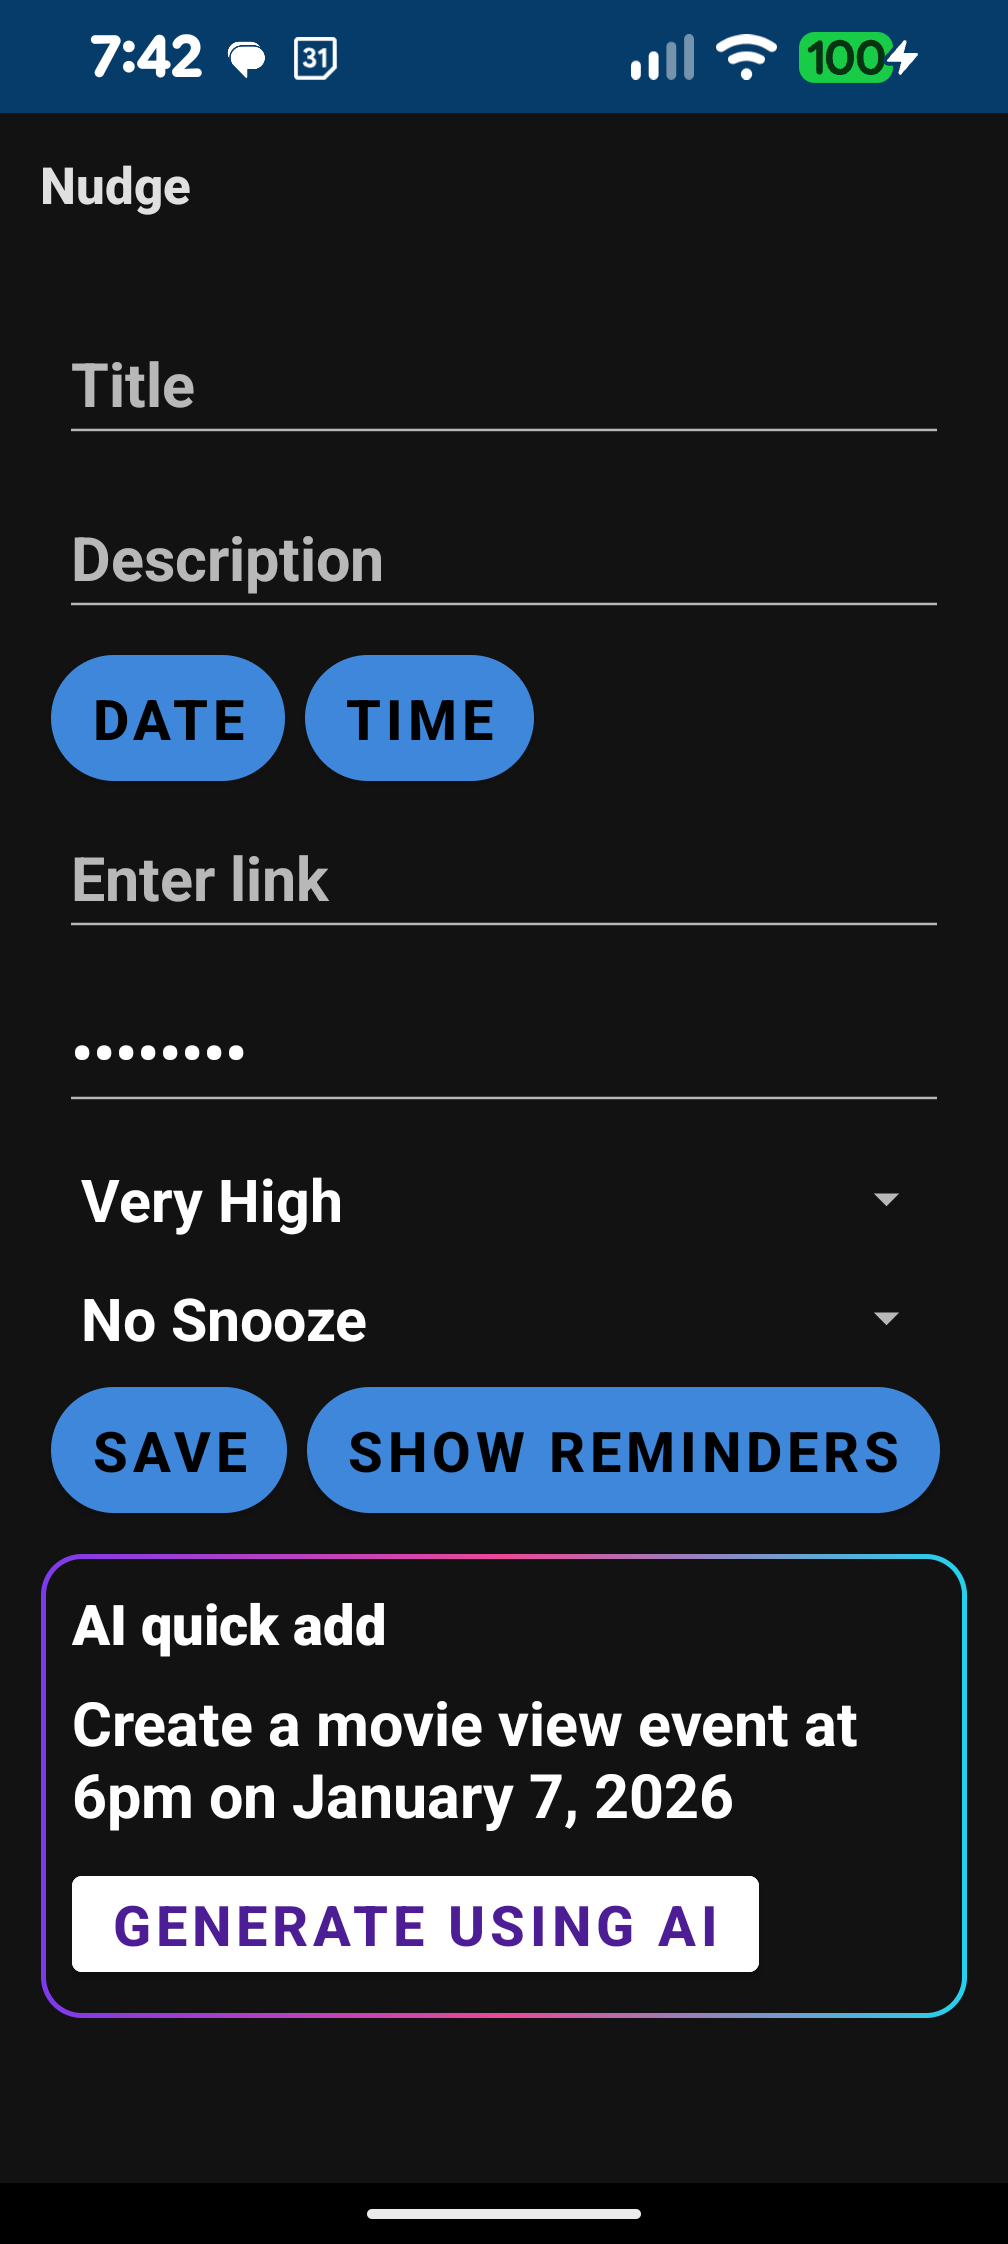
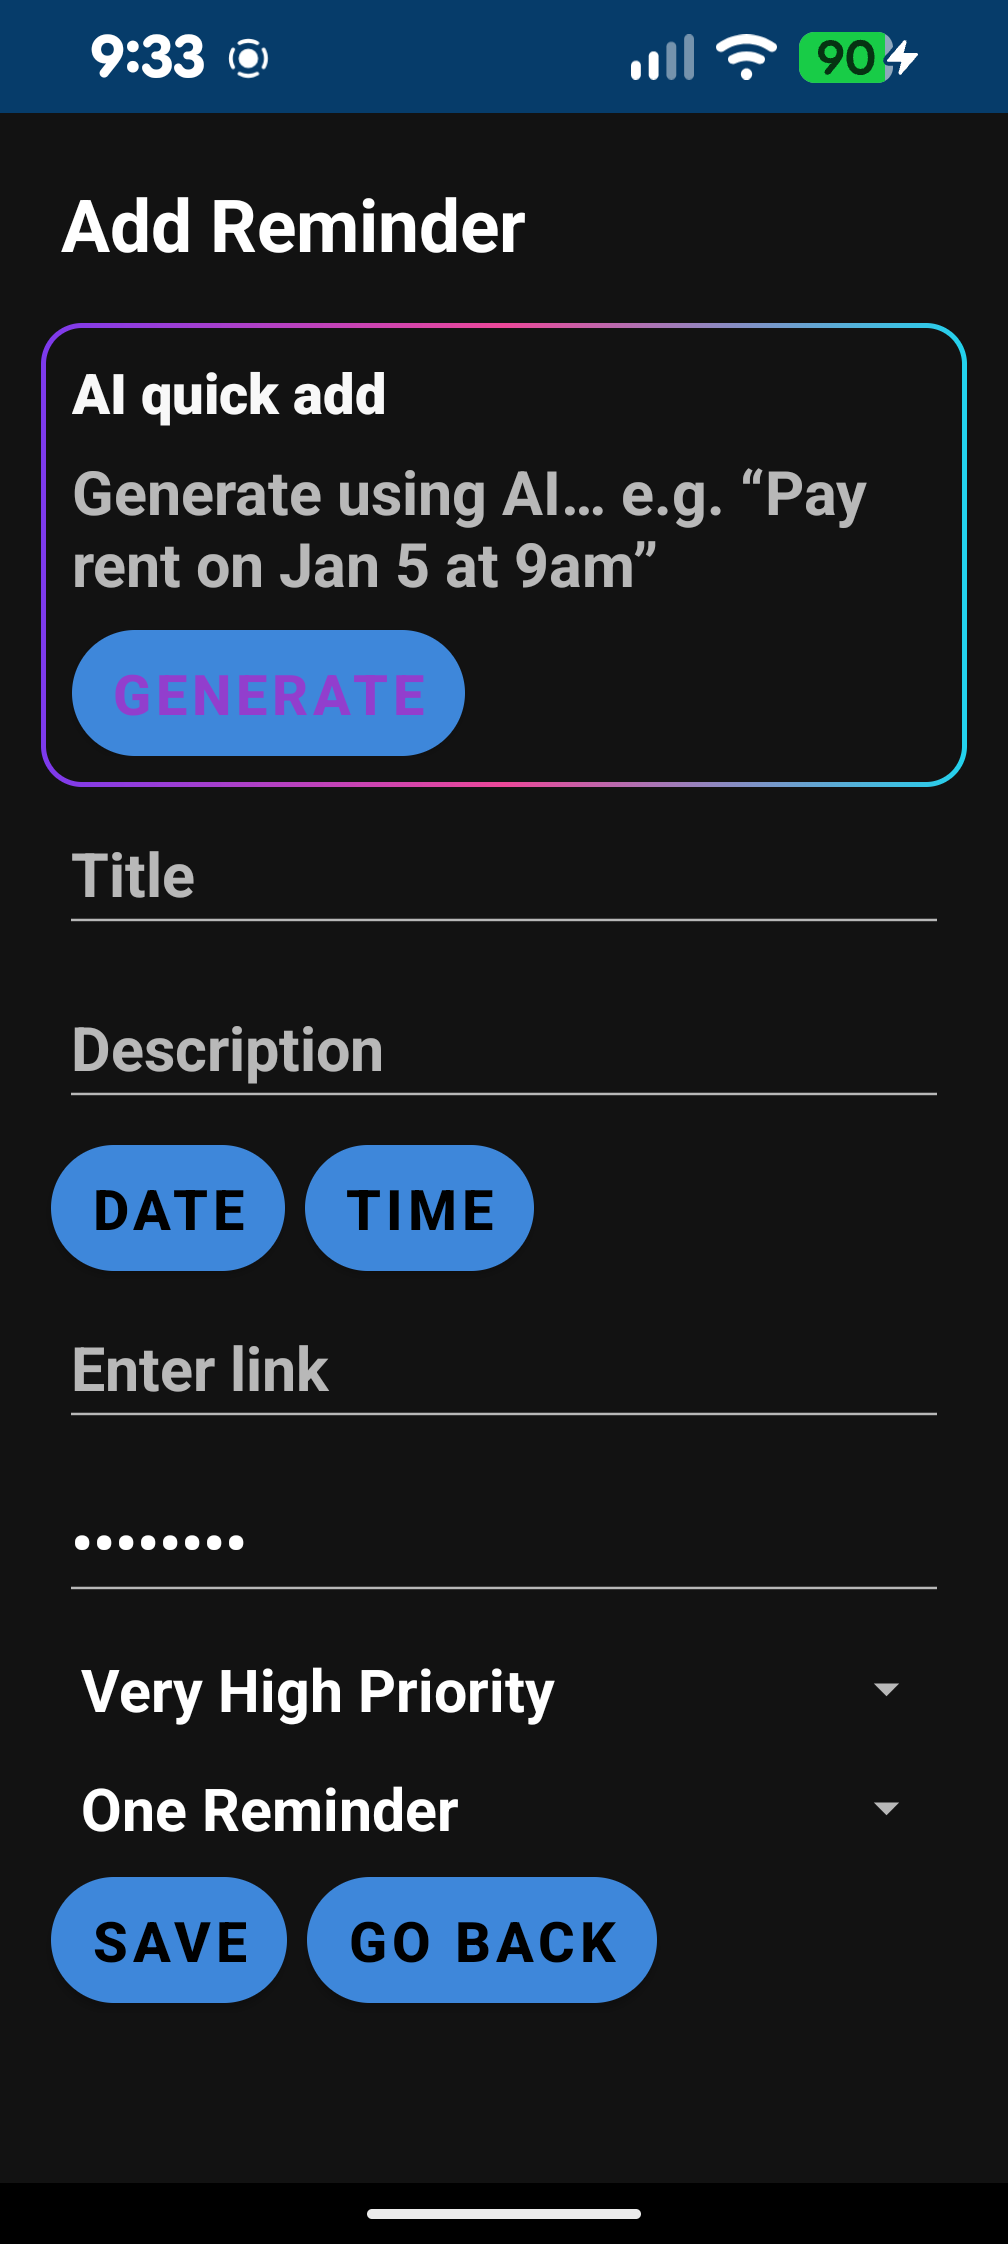
client: make ai box contextual

diff --git a/client/android/app/src/main/java/com/hyunwookshin/nudge/ReminderFragment.kt b/client/android/app/src/main/java/com/hyunwookshin/nudge/ReminderFragment.kt
@@ -34,6 +34,7 @@ class ReminderFragment : Fragment() {
     private lateinit var idEditText: EditText
     private lateinit var aiInputEditText: EditText
     private lateinit var aiGenerateButton: Button
+    private lateinit var aiBox: LinearLayout
 
     private lateinit var topLoading: com.google.android.material.progressindicator.LinearProgressIndicator
     private var inFlightCount = 0
@@ -57,6 +58,13 @@ class ReminderFragment : Fragment() {
             val fragment = ReminderFragment()
             val args = Bundle()
             args.putParcelable(ARG_REMINDER, reminder)
+            fragment.arguments = args
+            return fragment
+        }
+
+        fun newInstance(): ReminderFragment {
+            val fragment = ReminderFragment()
+            val args = Bundle()
             fragment.arguments = args
             return fragment
         }
@@ -97,6 +105,7 @@ class ReminderFragment : Fragment() {
         snoozeSpinner = view.findViewById(R.id.snoozeSpinner)
         idEditText = view.findViewById(R.id.idEditText)
         aiInputEditText = view.findViewById(R.id.aiInputEditText)
+        aiBox = view.findViewById(R.id.aiBox)
         aiGenerateButton = view.findViewById(R.id.aiGenerateButton)
         aiGenerateButton.setOnClickListener { generateReminderUsingAI() }
 
@@ -125,10 +134,13 @@ class ReminderFragment : Fragment() {
             pageTitle.text = "Add Reminder"
             selectedDate = prefillDate
             dateButton.text = prefillDate
+            aiInputEditText.hint = "Generate using AI for $selectedDate"
         }
 
         // Prepopulation when user clicks "Edit" from the list view.
         reminder?.let {
+            // hide ai box since user is editing
+            aiBox.visibility = View.GONE
             pageTitle.text = "Edit Reminder"
             titleEditText.setText(it.Title)
             descriptionEditText.setText(it.Description)
@@ -333,7 +345,7 @@ class ReminderFragment : Fragment() {
     }
 
     private fun generateReminderUsingAI() {
-        val text = aiInputEditText.text.toString().trim()
+        var text = aiInputEditText.text.toString().trim()
         val key = passwordEditText.text.toString().trim()
 
         if (text.isEmpty()) {
@@ -348,6 +360,13 @@ class ReminderFragment : Fragment() {
         aiGenerateButton.isEnabled = false
 
         val apiService = ApiClient.getClient().create(ApiService::class.java)
+        // Add date information if needed.
+        // Prepopulation when user long-pressed date on mini calendar
+        val prefillDate = arguments?.getString(ARG_PREFILL_DATE)
+        if (!prefillDate.isNullOrBlank()) {
+            selectedDate = prefillDate
+        }
+        text += " on $selectedDate."
         val req = AddReminderAiRequest(Text = text, Key = key)
 
         beginLoading()

diff --git a/client/android/app/src/main/java/com/hyunwookshin/nudge/ReminderListFragment.kt b/client/android/app/src/main/java/com/hyunwookshin/nudge/ReminderListFragment.kt
@@ -66,9 +66,7 @@ class ReminderListFragment : Fragment(), Refreshable {
 
         addEventText = view.findViewById(R.id.addEventText)
         addEventText.setOnClickListener {
-            val fragment = ReminderFragment.newInstanceForDate(
-                LocalDate.now().format(argDateFmt)
-            )
+            val fragment = ReminderFragment.newInstance()
             parentFragmentManager.beginTransaction()
                 .replace(R.id.fragment_container, fragment)
                 .addToBackStack(null)

diff --git a/README.md b/README.md
@@ -6,7 +6,7 @@ Simple reminder/notification app for everyday use.
 
 ### Demo
 
-[![Nudge demo](docs/demo.png)](https://drive.google.com/file/d/1wlZ53MJno5b-dkyF6bmI8mDBsIpy7AtD/view?usp=sharing)
+[![Nudge demo](docs/demo.png)](https://drive.google.com/file/d/1Wt_960vX6kw2LZkRfnV3sYPBKr9gVay-/view?usp=sharing)
 
 ### Work flow
 
